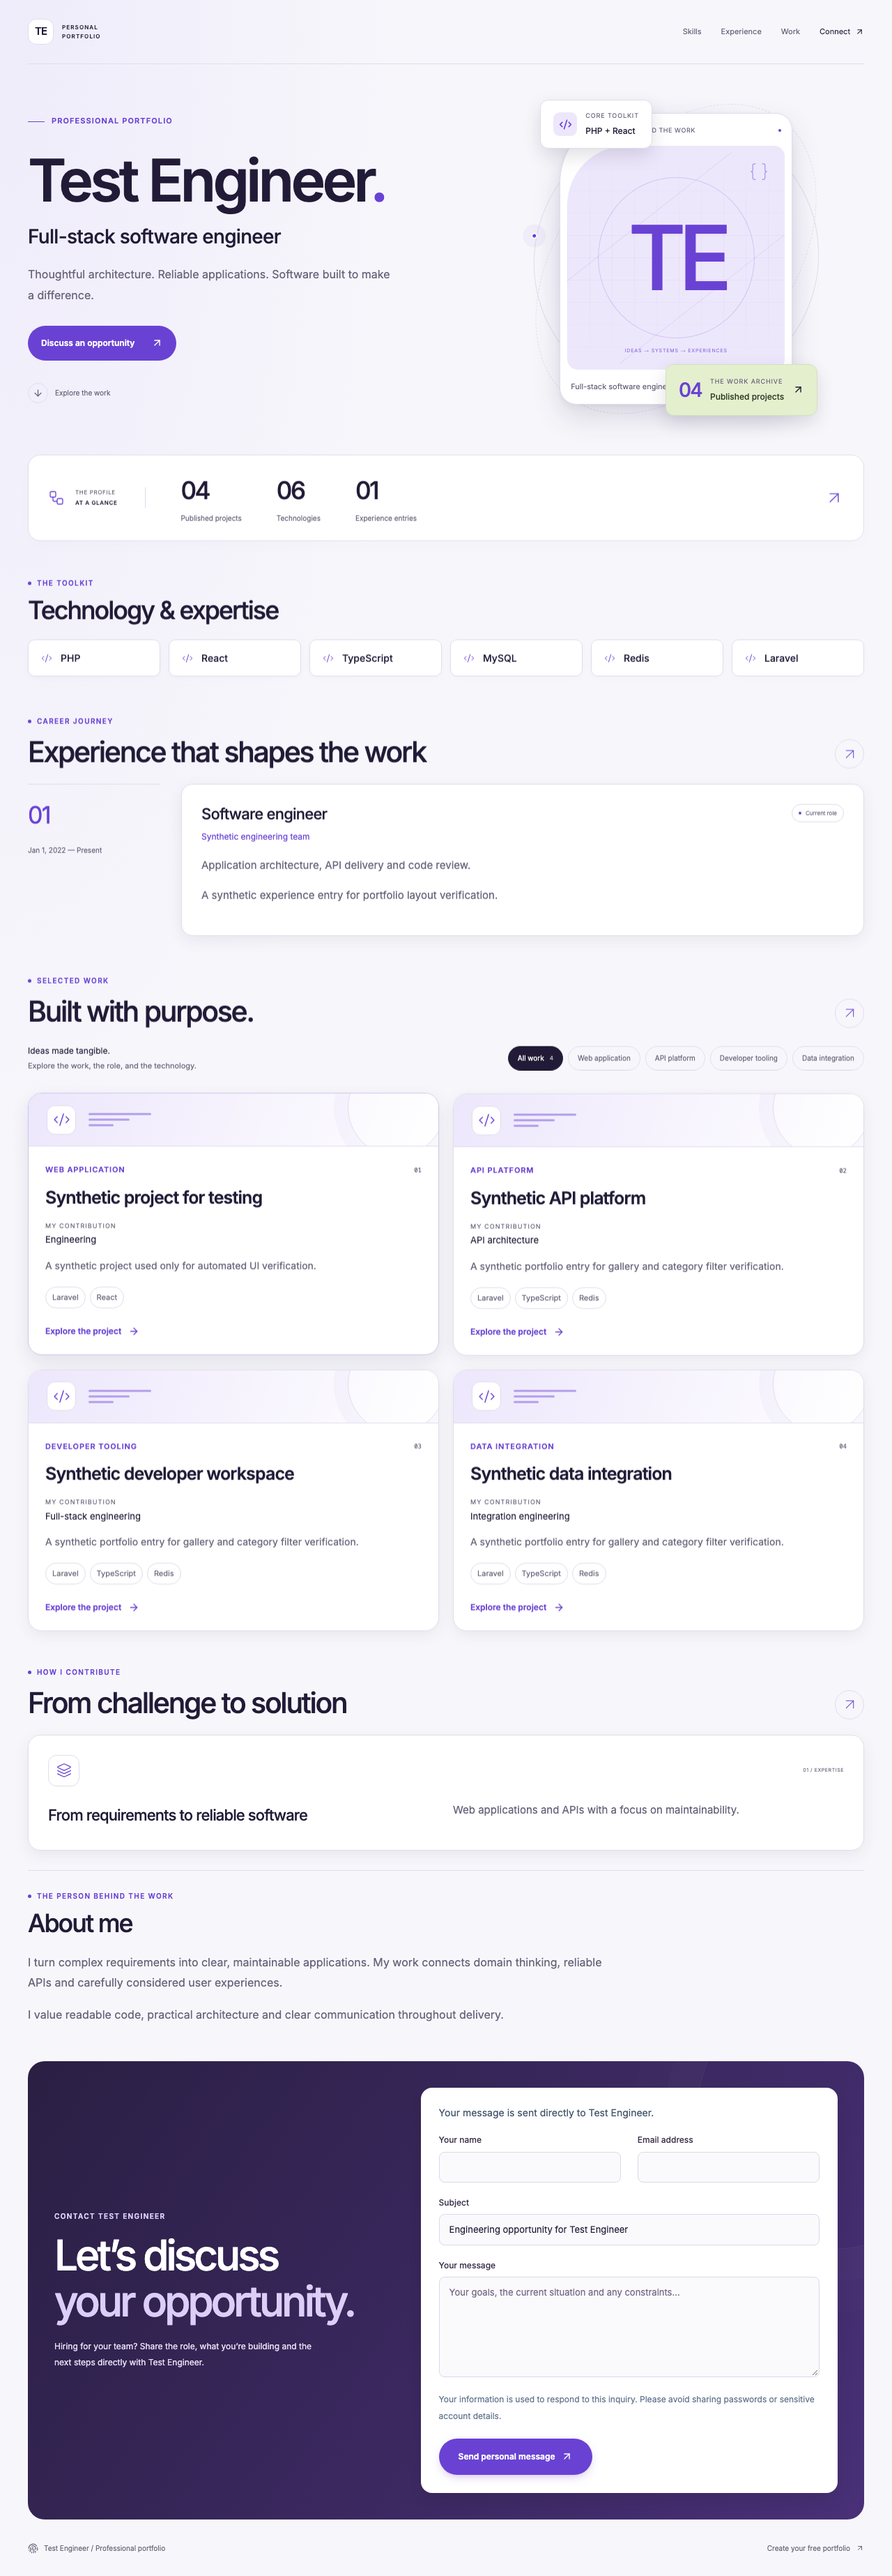
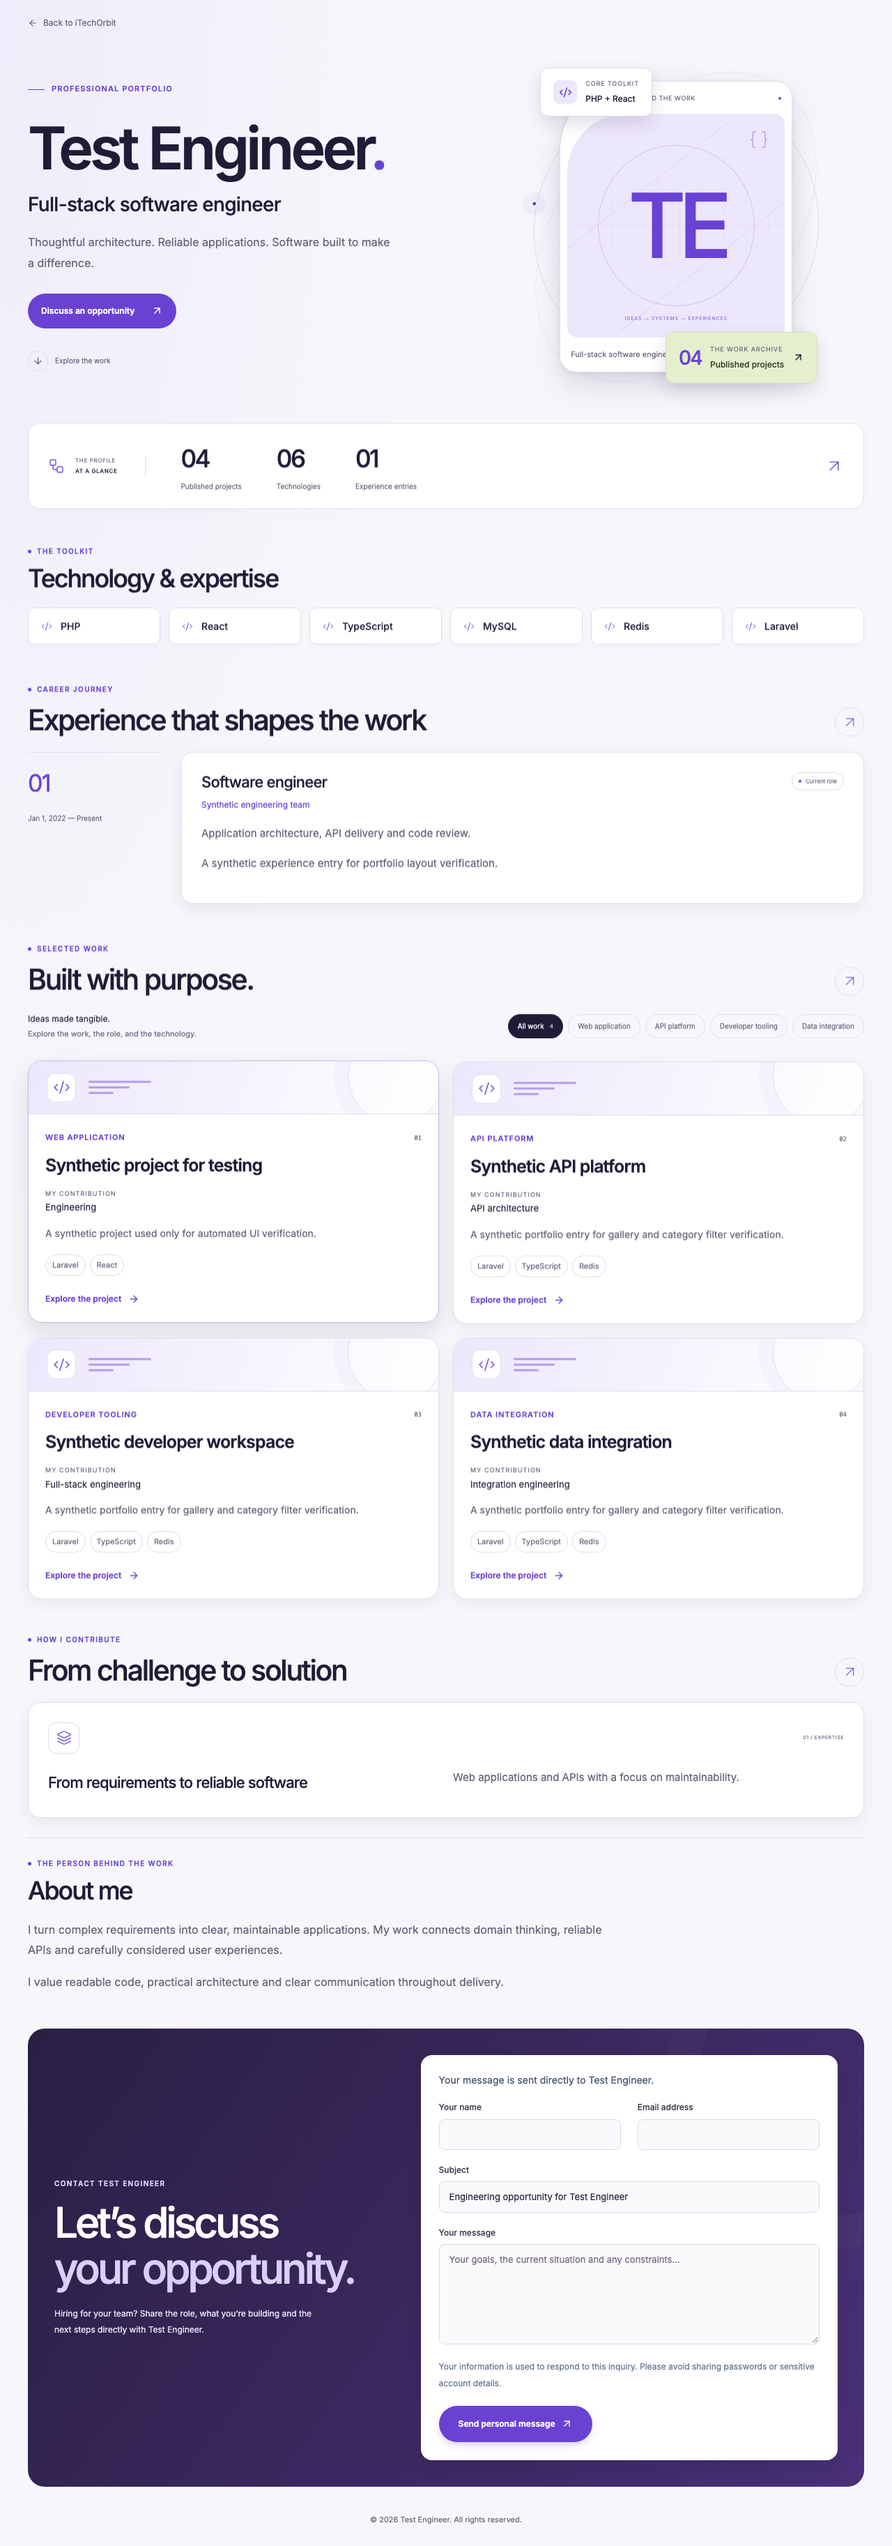
Simplify portfolio chrome to return link and creator copyright

diff --git a/tests/browser/website.spec.ts b/tests/browser/website.spec.ts
@@ -304,7 +304,11 @@ test('portfolio template studio previews five layouts and persists the public se
     await expect(page.getByRole('navigation', { name: 'Main navigation' })).toHaveCount(0);
     await expect(page.locator('.pf-candidate-role')).toHaveText('Full-stack software engineer');
     await expect(page.getByRole('link', { name: 'Discuss an opportunity', exact: true })).toHaveAttribute('href', '#connect');
-    await expect(page.getByRole('link', { name: 'Create your free portfolio' })).toHaveAttribute('href', '/register');
+    await expect(page.getByRole('navigation', { name: 'Portfolio sections' })).toHaveCount(0);
+    await expect(page.locator('.pf-local-header')).toHaveCount(0);
+    await expect(page.getByRole('link', { name: 'Back to iTechOrbit', exact: true })).toHaveAttribute('href', '/');
+    await expect(page.locator('.pf-signature')).toHaveText(`© ${new Date().getFullYear()} Test Engineer. All rights reserved.`);
+    await expect(page.locator('.pf-signature a')).toHaveCount(0);
     await expect(page.getByRole('heading', { name: 'Built with purpose.' })).toBeVisible();
     const profileRows = await page.locator('.pf-profile-sections').evaluate(container => {
       const box = container.getBoundingClientRect();
@@ -330,7 +334,7 @@ test('portfolio template studio previews five layouts and persists the public se
           const box = element.getBoundingClientRect(); const css = getComputedStyle(element);
           return [box.left + parseFloat(css.paddingLeft), box.right - parseFloat(css.paddingRight)];
         };
-        return { header: contentEdges('.pf-local-header'), portfolio: contentEdges('.pf-profile-sections'), footer: contentEdges('.pf-signature') };
+        return { header: contentEdges('.pf-return-row'), portfolio: contentEdges('.pf-profile-sections'), footer: contentEdges('.pf-signature') };
       });
       for (const edge of [0, 1]) {
         expect(Math.abs(edges.portfolio[edge] - edges.header[edge])).toBeLessThan(1);
@@ -346,7 +350,7 @@ test('portfolio template studio previews five layouts and persists the public se
     const allWork = filters.getByRole('button', { name: /All work/ });
     await allWork.focus(); await page.keyboard.press('Enter');
     await expect(page.locator('.pf-project')).toHaveCount(4);
-    await expect(page.getByRole('navigation', { name: 'Portfolio sections' }).getByRole('link', { name: 'Work', exact: true })).toHaveAttribute('href', '#projects');
+    await expect(page.getByRole('link', { name: 'Explore the work', exact: true })).toHaveAttribute('href', '#projects');
     const gallery = await page.locator('.pf-projects').boundingBox();
     const finalRow = await page.locator('.pf-projects').evaluate(grid => {
       const boxes = [...grid.querySelectorAll<HTMLElement>('.pf-project')].map(card => ({ y: card.offsetTop, left: card.getBoundingClientRect().left, right: card.getBoundingClientRect().right }));
@@ -393,8 +397,11 @@ test('portfolio template studio previews five layouts and persists the public se
     expect(html).toContain(`data-template="${name.toLowerCase()}"`); expect(html).toContain('Synthetic project for testing');
     await page.evaluate(() => { (document.activeElement as HTMLElement)?.blur(); window.scrollTo({ top: 0, behavior: 'instant' }); });
     await expect.poll(() => page.evaluate(() => window.scrollY)).toBe(0);
-    await expect(page.getByRole('link', { name: 'Test Engineer portfolio top', exact: true })).toBeInViewport();
+    await expect(page.getByRole('link', { name: 'Back to iTechOrbit', exact: true })).toBeInViewport();
     await page.screenshot({ path: testInfo.outputPath(`portfolio-${name.toLowerCase()}.png`), fullPage: true });
+    await page.getByRole('link', { name: 'Back to iTechOrbit', exact: true }).click();
+    await expect(page).toHaveURL(/\/$/);
+    await expect(page.getByRole('heading', { level: 1 })).toContainText('Build, Modernize');
     await page.goto(`/portfolios/SPARSE-${name.toUpperCase()}`);
     await expect(page.getByRole('heading', { level: 1 })).toContainText('Minimal Engineer');
     await expect(page.locator('.pf-project, .pf-section')).toHaveCount(0);
@@ -439,7 +446,7 @@ test('uploaded project screenshots appear as compact uncropped portfolio thumbna
     await expect(image).toBeVisible();
     await expect.poll(() => image.evaluate((node: HTMLImageElement) => node.complete && node.naturalWidth > 0)).toBeTruthy();
     await expect(image).toHaveCSS('object-fit', 'contain');
-    expect(await card.locator('.pf-project-image').evaluate(node => node.getBoundingClientRect().height)).toBeLessThanOrEqual(isMobile ? 160 : 190);
+    expect(await card.locator('.pf-project-image').evaluate(node => node.getBoundingClientRect().height)).toBeLessThanOrEqual((isMobile ? 160 : 190) + 0.5);
     await expect(card.locator('.pf-project-accent')).toHaveCount(0);
     await card.screenshot({ path: testInfo.outputPath('uploaded-project-thumbnail.png') });
     await card.getByRole('link', { name: 'View Synthetic project for testing', exact: true }).click();

diff --git a/resources/js/components/portfolio/PortfolioView.tsx b/resources/js/components/portfolio/PortfolioView.tsx
@@ -1,5 +1,5 @@
 import '../../../css/portfolio.css';
-import { ArrowDown, ArrowUpRight, Download, Code2, Braces, Layers3, MoveUpRight, Fingerprint, Workflow, Circle, ArrowRight } from 'lucide-react';
+import { ArrowLeft, ArrowDown, ArrowUpRight, Download, Code2, Braces, Layers3, MoveUpRight, Fingerprint, Workflow, Circle, ArrowRight } from 'lucide-react';
 import { useEffect, useRef, useState, type ReactNode } from 'react';
 import { ContactForm } from '@/components/ContactForm';
 import type { Project } from '@/lib/types';
@@ -22,10 +22,6 @@ function Actions({ profile }: { profile: Profile }) {
 }
 function Socials({ profile }: { profile: Profile }) {
   return profile.socials.length ? <div className="pf-socials">{profile.socials.map(social => <a key={social.url} href={social.url} target="_blank" rel="noopener noreferrer">{social.name}<MoveUpRight size={13} /></a>)}</div> : null;
-}
-function SectionNav({ profile, projects }: { profile: Profile; projects: Project[] }) {
-  const links = [profile.skills.length > 0 && ['expertise', 'Skills'], profile.experiences.length > 0 && ['experience', 'Experience'], projects.length > 0 && ['projects', 'Work'], ['connect', 'Connect']].filter(Boolean) as string[][];
-  return <div className="pf-local-header"><a href="#portfolio-top" className="pf-personal-brand" aria-label={`${profile.name} portfolio top`}><span>{initials(profile.name)}</span><span>PERSONAL<br />PORTFOLIO</span></a><nav aria-label="Portfolio sections">{links.map(([id, label]) => <a key={id} href={`#${id}`}>{label}{id === 'connect' && <ArrowUpRight size={13} />}</a>)}</nav></div>;
 }
 function Identity({ profile, projects, technical = false }: { profile: Profile; projects: Project[]; technical?: boolean }) {
   return <div className={`pf-identity-stage ${technical ? 'is-technical' : ''}`}>
@@ -90,7 +86,7 @@ export function PortfolioView({ profile, projects, template, preview = false }: 
   const about = <About profile={profile} />; const experience = <Experience profile={profile} />; const work = <Projects projects={projects} />; const skills = <Skills profile={profile} />; const services = <Services profile={profile} />;
   const hero = <Hero profile={profile} projects={projects} variant={style}>{projects.length > 0 && <a href="#projects" className="pf-scroll-link"><span><ArrowDown size={15} /></span>Explore the work</a>}</Hero>;
   return <div ref={canvas} id="portfolio-top" className={`portfolio-view pf-${style}`} data-template={style} onClick={preview ? event => { if ((event.target as Element).closest('a')) event.preventDefault(); } : undefined}>
-    <div className="shell pf-shell"><SectionNav profile={profile} projects={projects} />
+    <div className="shell pf-shell"><div className="pf-return-row"><a href="/" className="pf-return-link"><ArrowLeft size={14} aria-hidden="true" />Back to iTechOrbit</a></div>
       {style === 'executive' ? <div className="pf-executive-stage">{hero}<div className="pf-executive-signoff"><span>ENGINEERING / PERSPECTIVE / EXECUTION</span><Fingerprint size={22} strokeWidth={1} /></div></div>
         : style === 'blueprint' ? <><div className="pf-terminal-bar"><span><span className="pf-terminal-dot" /> engineer.profile</span><span>HUMAN AT THE CORE / ENGINEERING AT THE EDGES</span></div>{hero}</>
         : style === 'editorial' ? <><div className="pf-editorial-masthead"><span>THE ENGINEERING EDITION</span><span>INDEPENDENT THINKING. INTENTIONAL CRAFT.</span></div>{hero}</>
@@ -98,7 +94,7 @@ export function PortfolioView({ profile, projects, template, preview = false }: 
         : hero}
       {(style === 'studio' || style === 'executive') && <Facts profile={profile} projects={projects} />}
       <div className="pf-profile-sections">{skills}{experience}{work}{services}{about}</div>
-      <Contact profile={profile} preview={preview} /><footer className="pf-signature"><span><Fingerprint size={15} />{profile.name} / Professional portfolio</span><a href="/register">Create your free portfolio <ArrowUpRight size={12} /></a></footer>
+      <Contact profile={profile} preview={preview} /><footer className="pf-signature pf-copyright"><span>© {new Date().getFullYear()} {profile.name}. All rights reserved.</span></footer>
     </div>
   </div>;
 }

diff --git a/resources/css/portfolio.css b/resources/css/portfolio.css
@@ -375,3 +375,10 @@
 .pf-candidate-role { margin:-10px 0 20px; color:var(--pf-ink); font-size:clamp(20px,2.4cqw,28px); font-weight:500; line-height:1.4; letter-spacing:-.025em; overflow-wrap:anywhere; }
 @container(max-width:1023px) { .pf-profile-row .pf-skills { grid-template-columns:repeat(3,minmax(0,1fr)); } }
 @container(max-width:680px) { .pf-profile-row .pf-skills { grid-template-columns:repeat(2,minmax(0,1fr)); } .pf-candidate-role { font-size:21px; } }
+
+/* A discreet exit replaces portfolio navigation; the creator owns the canvas. */
+.pf-return-row { padding:22px 0 0; }
+.pf-return-link { display:inline-flex; align-items:center; gap:8px; color:var(--pf-muted); font-size:12px; line-height:1.6; transition:color .2s; }
+.pf-return-link:hover { color:var(--pf-accent); }
+.pf-copyright { justify-content:center; margin-top:8px; padding:20px 0 28px; font-size:11px; line-height:1.7; text-align:center; }
+@container(max-width:680px) { .pf-return-row { padding-top:18px; } .pf-copyright { font-size:10px; } }

diff --git a/docs/PORTFOLIO_TEMPLATES.md b/docs/PORTFOLIO_TEMPLATES.md
@@ -120,9 +120,9 @@ TypeScript, lint, Pint and production client/SSR builds pass. Browser coverage e
 
 
 ### Candidate-first presentation (2026-10-16)
-Public portfolios now use their own personal navigation and footer rather than the corporate header and service footer. The real professional title sits directly beneath the candidate name, replacing generic marketing slogans. A public CV is the first action when available; otherwise the opportunity contact action leads. Contact messages still belong to the candidate. The footer links to registration for the free portfolio service.
+Public portfolios have no navigation header. A discreet Back to iTechOrbit link sits above the candidate hero; the footer contains only the current-year copyright in the creator’s name. The real professional title sits directly beneath the candidate name, replacing generic marketing slogans. A public CV is the first action when available; otherwise the opportunity contact action leads. Contact messages still belong to the candidate. There are no promotional, registration or navigation links in the footer.
 
-The Technology & expertise grid uses six equal columns above 1,023px, three from 681–1,023px and two at 680px or below. Container queries also apply inside private mobile previews. Long skill names wrap instead of overflowing. Section order remains skills, experience, projects, services, About, then contact.
+The Technology & expertise grid uses six equal columns above 1,023px, three from 681–1,023px and two at 680px or below. Container queries also apply inside private mobile previews. Long skill names wrap instead of overflowing. Section order remains skills, experience, projects, services, About, then contact. This applies across all five templates and their private previews; the main business site and separate personal inquiry page retain their own layouts.
 
 The template chooser includes an expandable content-preparation guide using existing public preview data. It checks presence of role, objective, skills, projects and a publicly visible CV; this is not a quality score or a promise of interviews. Existing registration, email verification, permission configuration and administrator-controlled publication still apply. Self-service automatic publication is not implemented by this presentation change.
 

diff --git a/docs/COMPLETION_REPORT.md b/docs/COMPLETION_REPORT.md
@@ -201,3 +201,7 @@ Final career-order verification: 6 desktop/mobile browser checks passed. Updated
 Candidate pages now have standalone personal navigation, a prominent real role and name, a public-CV-first action where available, direct hiring inquiries and a registration link for the free portfolio service. The existing five themes retain their character, project screenshots and career section order. Expertise tiles use six equal desktop columns, three tablet columns and two mobile columns. The private template chooser adds an expandable preparation checklist without claiming to rate content quality or guarantee interviews.
 
 Validation: 48 PHP tests / 1,089 assertions, 3 frontend tests, TypeScript, ESLint, Pint, client/SSR builds and all 6 affected desktop/mobile browser scenarios pass. Updated synthetic captures are under docs/assets. Existing publication approval remains in place; this is a presentation and guidance change, not a new automatic publication workflow. No database or environment changes, real messages, deployment or performance measurements were made. Deploy rebuilt assets and restart SSR through the existing approved release procedure; rollback by reverting this change and rebuilding assets.
+
+
+### Creator-only portfolio chrome — 2026-10-16
+Removed personal navigation/header from all five portfolio templates and previews. A subtle Back to iTechOrbit link returns to the main site; the footer contains only the creator’s current-year copyright. Corporate pages and the separate inquiry page retain their existing layouts. All six affected desktop/mobile browser scenarios are verified, including actual return-link navigation and footer content. A mobile image-height check needed 0.5 CSS pixel rounding tolerance (observed difference 0.00012px); both upload scenarios pass on rerun. Types, lint and production client/SSR builds pass; refreshed captures were reviewed. No backend, environment or database changes. Rebuild assets/restart SSR for an approved release; revert the commit and rebuild to roll back.

diff --git a/docs/IMPLEMENTATION_CHECKLIST.md b/docs/IMPLEMENTATION_CHECKLIST.md
@@ -249,3 +249,9 @@ Status legend: [x] implemented/verified, [ ] pending. Updated continuously; inco
 - [x] Add private content-preparation guidance and a free portfolio registration link; preserve existing publication permissions and CV privacy.
 - [x] PHP 48 tests / 1,089 assertions, 3 frontend tests, types, lint and client/SSR builds pass.
 - [x] All 6 affected desktop/mobile browser flows pass across five templates, including responsive grid counts, standalone alignment, direct contact and screenshot uploads. Review and refresh portfolio captures; Pint passes.
+
+
+## Creator-only portfolio chrome — 2026-10-16
+- [x] Remove personal header/navigation from all five portfolio templates and their previews; add a discreet Back to iTechOrbit link above the hero.
+- [x] Replace footer branding and registration links with the current-year creator copyright only; preserve candidate content and direct contact.
+- [x] Verify all 6 affected desktop/mobile scenarios: five-theme layouts, working return links, copyright-only footers, template persistence, contact and uploads. Initial mobile upload-height assertion differed by 0.00012 CSS pixels; allow 0.5px layout rounding and rerun both upload scenarios successfully. TypeScript, lint and client/SSR builds pass. Review and refresh captures.
